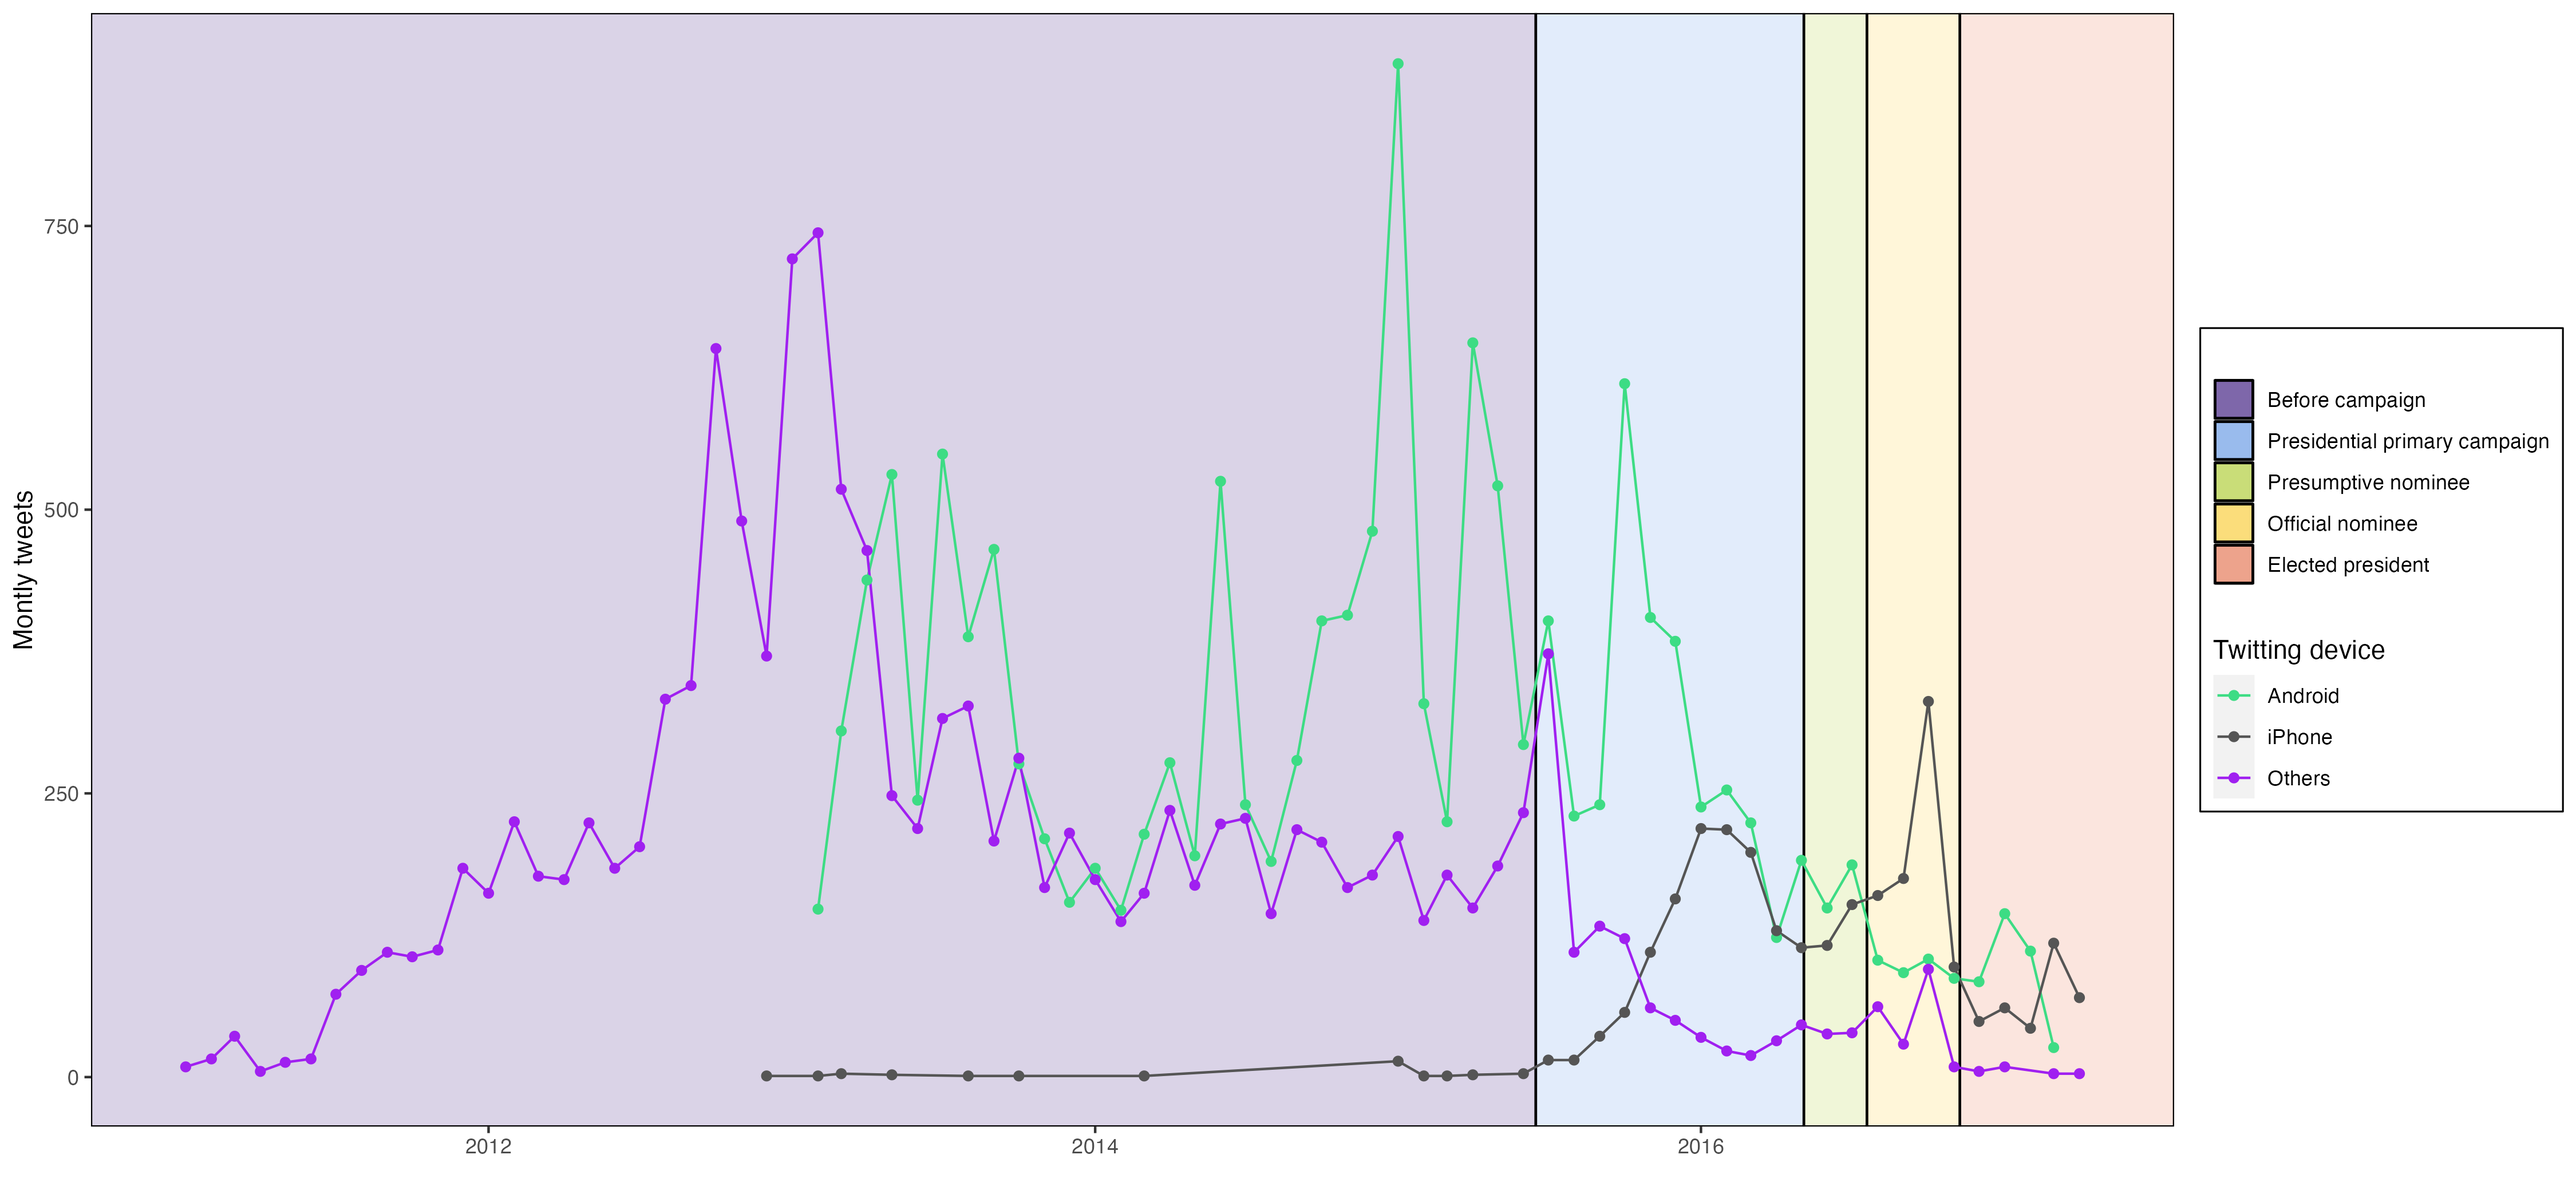
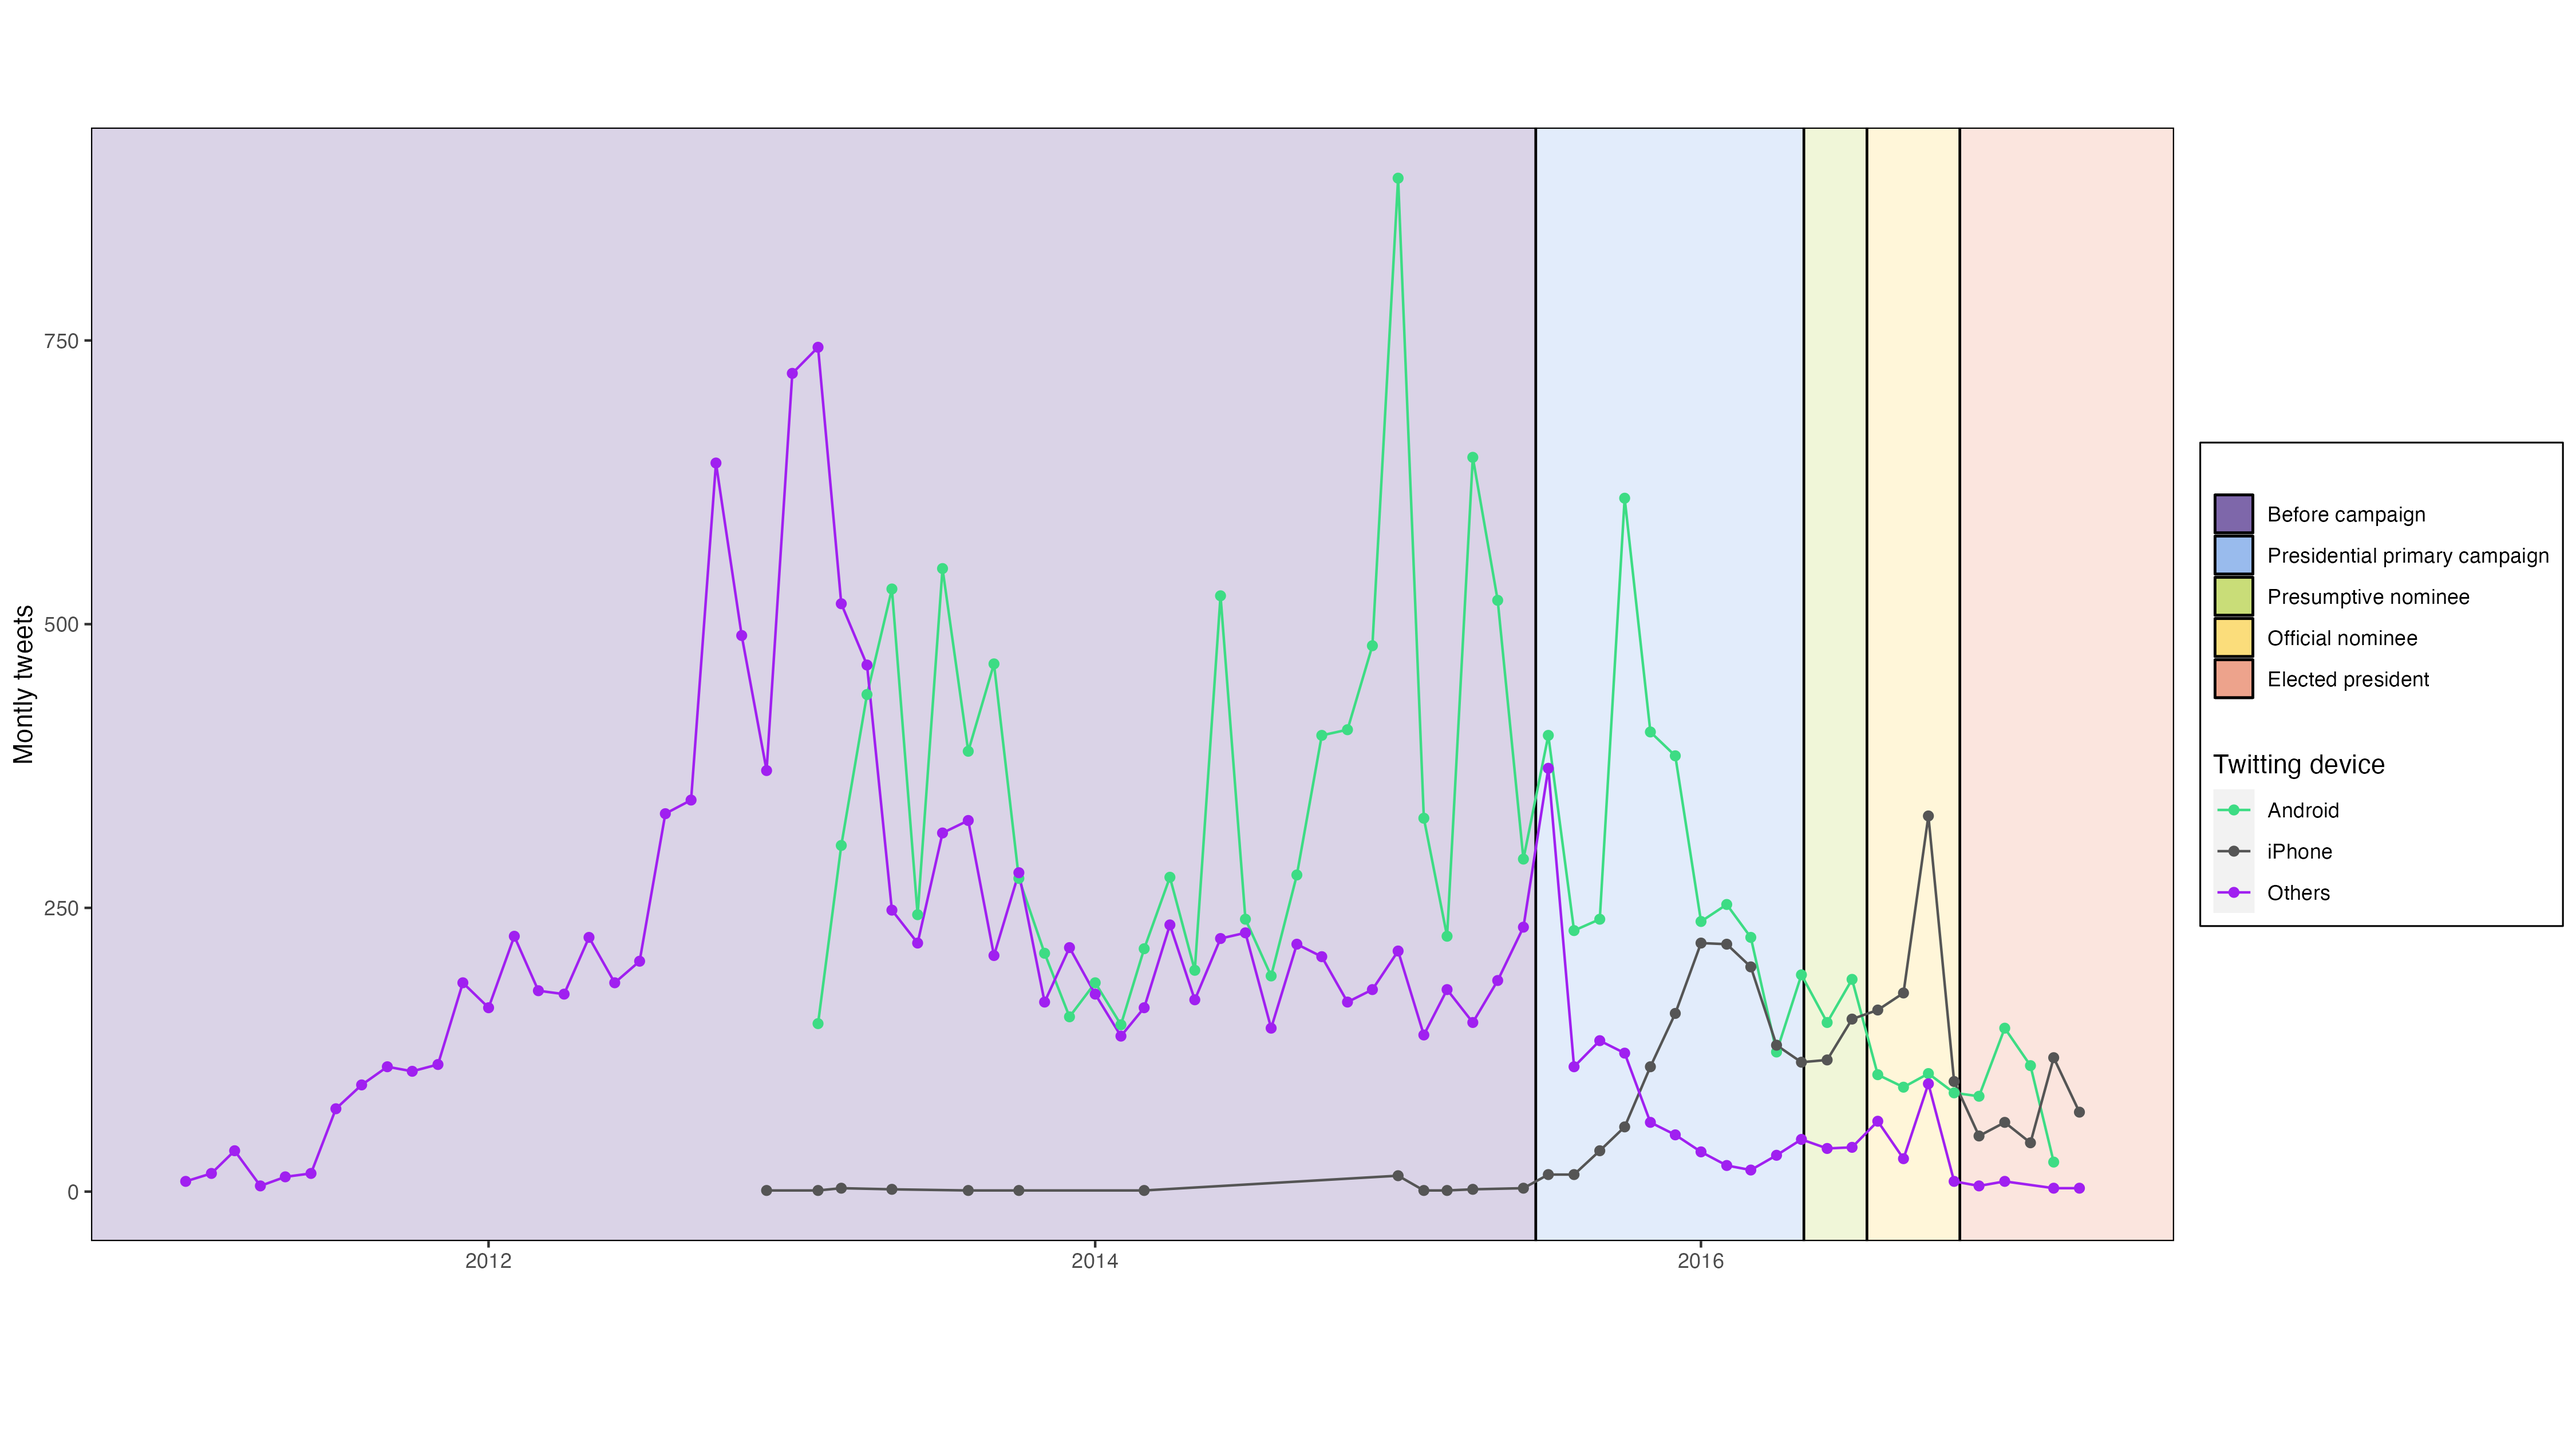
Resize image and removed Div fixed height

diff --git a/index.html b/index.html
@@ -76,9 +76,9 @@
         <img src="/src/europ_2019.png" class="rounded mx-auto d-block w-60" alt="2">
       </div>
       <div class="carousel-item">
-      <div style="height: 525.6px;">
+      <!-- <div style="height: 525.6px;"> -->
         <img src="/src/trump_tweet_sources.png" class="rounded mx-auto d-block w-100" style="top: 10%; position: relative;"  alt="3">
-      </div>
+      <!-- </div> -->
       </div>
     </div>
     <button class="carousel-control-prev" type="button" data-bs-target="#carouselExample" data-bs-slide="prev">
